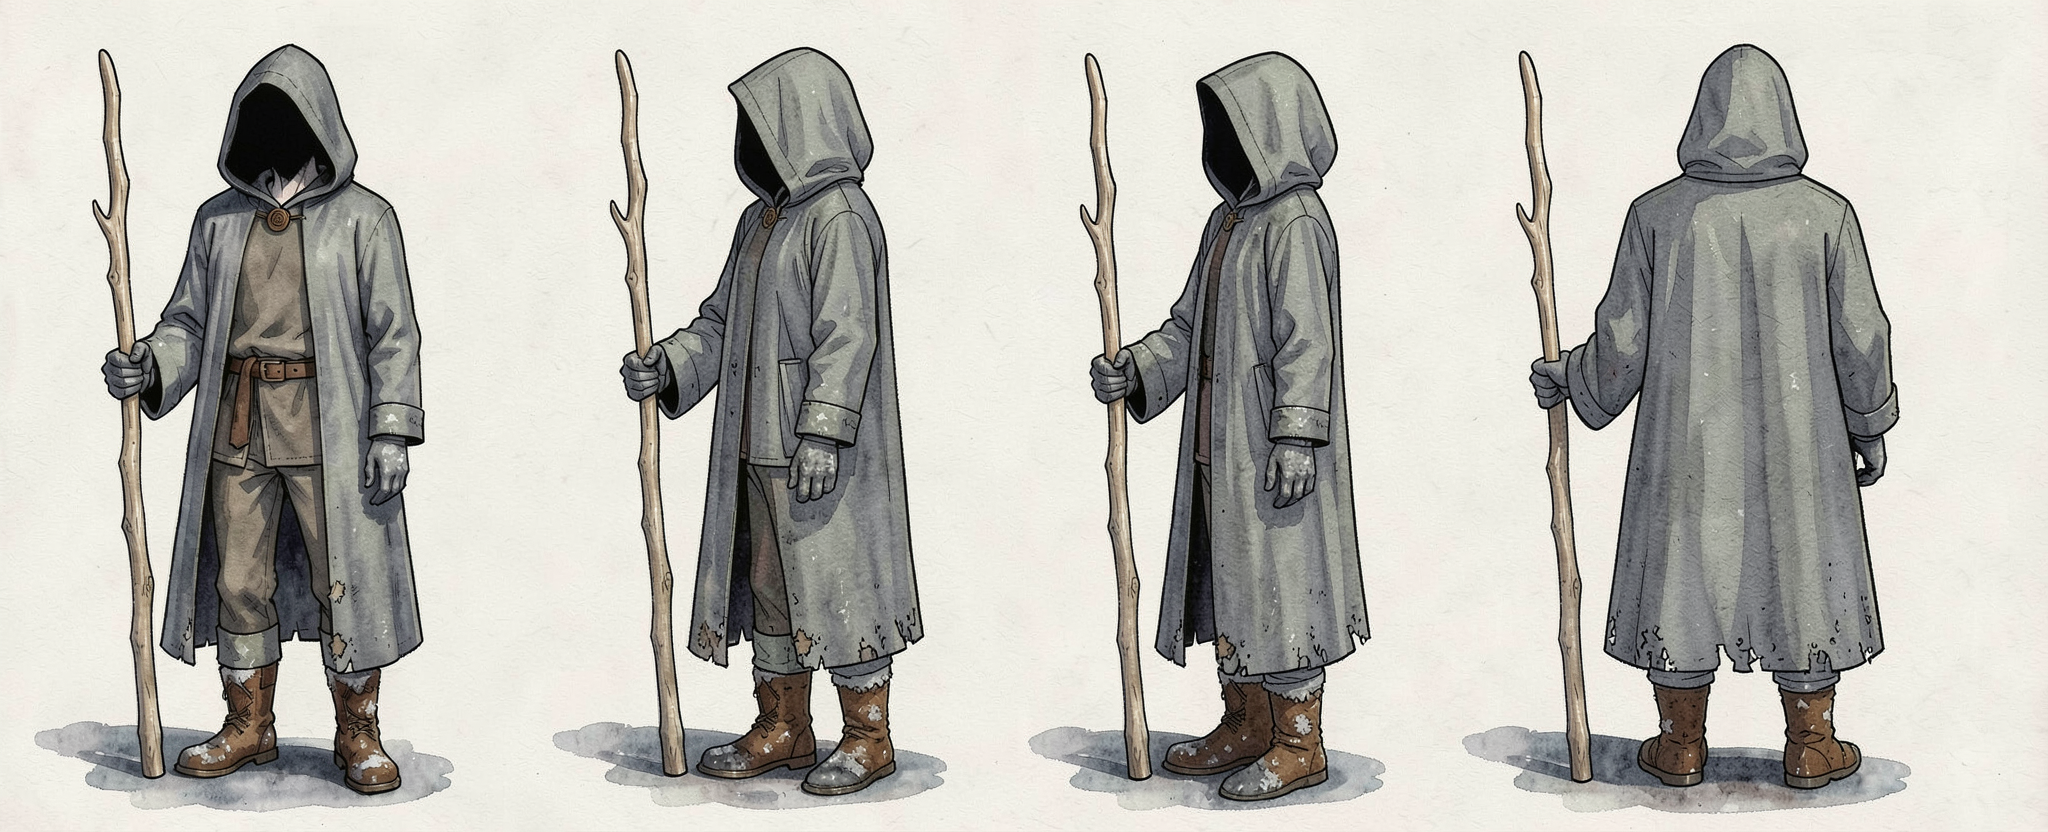
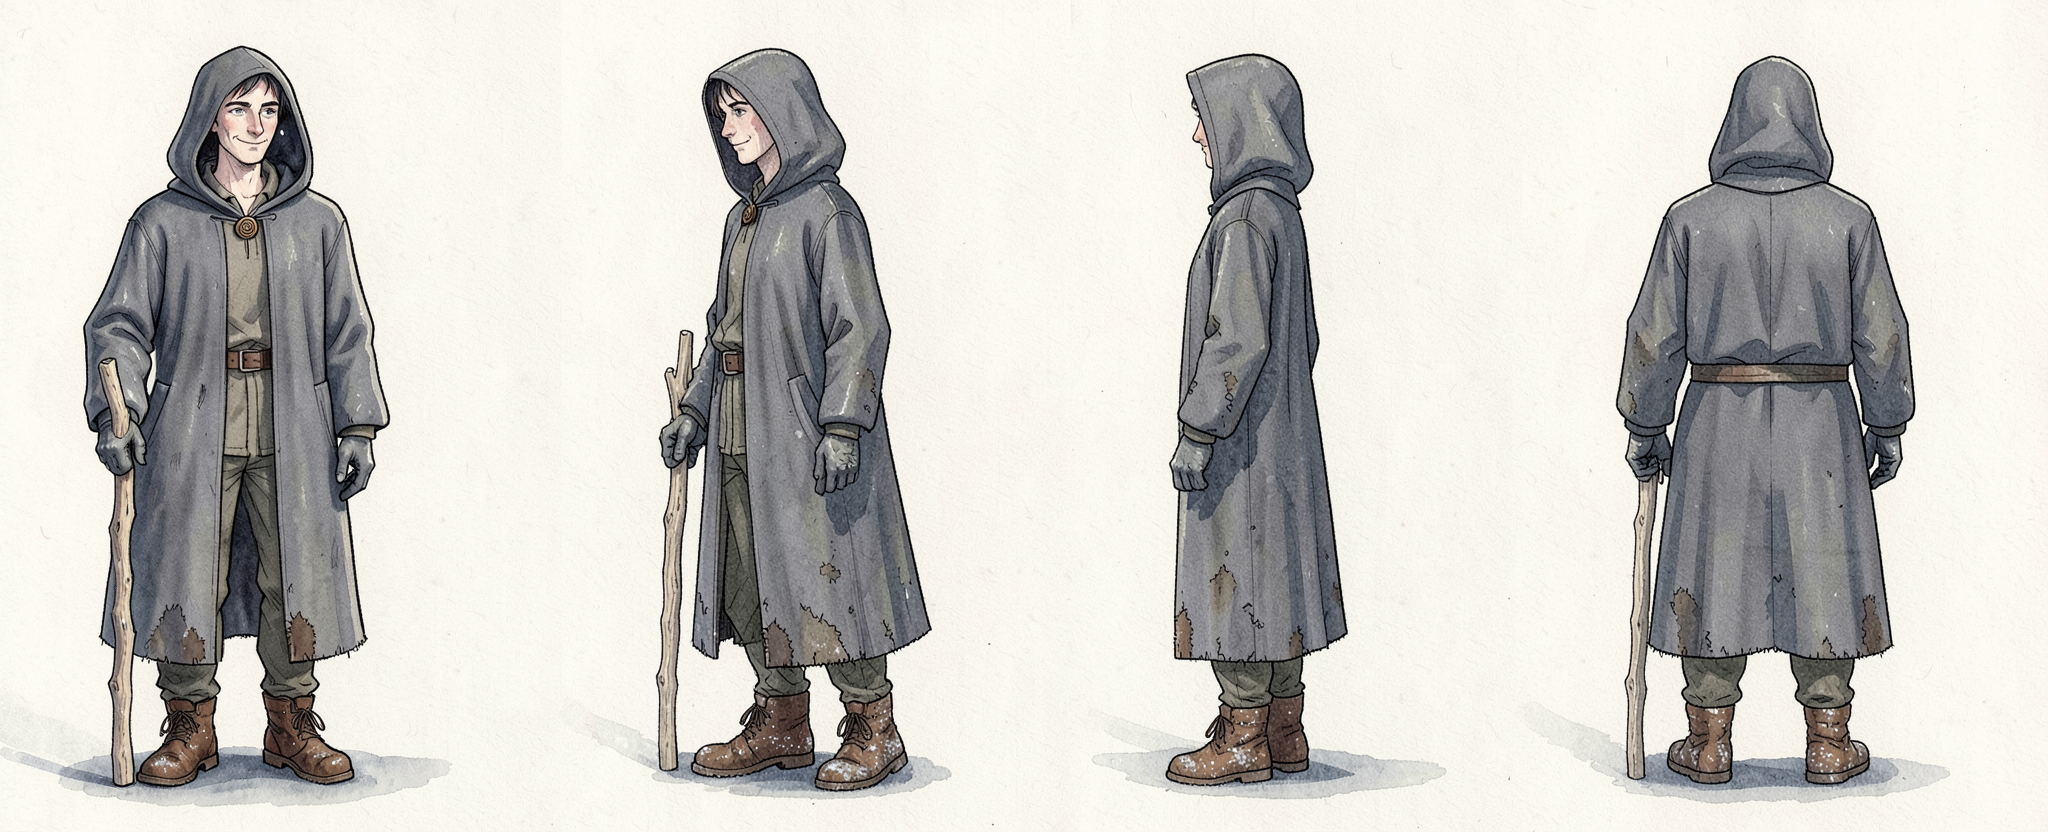
Der Fremde: von Pasco gewählte Fassung (Gesicht sichtbar), Nerelle bestätigt

diff --git a/docs/art/figuren/README.md b/docs/art/figuren/README.md
@@ -56,7 +56,7 @@ Grundaussehen nach `docs/worldbuilding/figuren-aussehen.md`; die ergänzten Deta
 - Der Fremde: Bei vielen Seeds zeichnet das Modell in den Seitenansichten ein Menschengesicht. Beim Erzeugen von Szenen darauf achten, dass das Gesicht im Schatten bleibt. Seine Stiefel sehen recht modern aus.
 - Der Fremde hält den Brief mit dem Spiralsiegel – streng genommen ein Szenenzustand (Perle 1, Nacht).
 
-## Die vier Mentoren (Yrsa, Borrik und Vael bestätigt 12.10.2026; Nerelle überarbeitet, Abnahme offen)
+## Die vier Mentoren (alle vier von Pasco bestätigt; Nerelle am 13.10.2026)
 Grundaussehen nach `docs/worldbuilding/figuren-aussehen.md`; ergänzte Details stehen dort als Vorschlag.
 
 | Datei | Entstanden aus |
@@ -74,22 +74,21 @@ Grundaussehen nach `docs/worldbuilding/figuren-aussehen.md`; ergänzte Details s
 - Vael: Die Mütze fehlt bewusst (Szenenzustand).
 
 ## Grumak und der Fremde – aktuelle Fassung (13.10.2026)
-Die Fassungen vom 13.10.2026 haben die ersten Bilder ersetzt (Grumak von Pasco angenommen; beim Fremden nach Auftrag entschieden).
+Die Fassungen vom 13.10.2026 haben die ersten Bilder ersetzt (beide von Pasco angenommen).
 
 | Datei | Entstanden aus |
 |---|---|
 | `grumak-einzel.png` | `grumak-einzel-neu.prompt.txt`, Seed 2, 1024×1216, nur aus Text. Die blasse Bleistiftfigur daneben ist ein Größenvergleich mit einem Menschen. |
 | `grumak-referenzblatt.png` | `grumak-blatt.prompt.txt`, Seed 1, 2048×832, Referenz `grumak-einzel.png` |
-| `fremder-einzel.png` | `fremder-einzel-neu.prompt.txt`, Seed 4, 832×1216; danach beide Augen als Schimmer ergänzt (`fremder-augen.prompt.txt`, Seed 4) |
-| `fremder-referenzblatt.png` | `fremder-blatt.prompt.txt`, Seed 8, 2048×832, Referenz `fremder-einzel.png` |
-| `fremder-vergleich.png` | Übersicht für Pasco: links die gewählte Fassung, daneben die sechs Seeds des dritten Versuchs (`fremder-einzel-v3.prompt.txt`) |
+| `fremder-einzel.png` | `fremder-einzel-v3.prompt.txt`, Seed 2, 832×1216, nur aus Text. **Von Pasco gewählt (13.10.2026).** Die blasse Bleistiftfigur daneben ist ein Größenvergleich. |
+| `fremder-referenzblatt.png` | `fremder-blatt.prompt.txt`, Seed 2, 2048×832, Referenz `fremder-einzel.png` |
+| `fremder-vergleich.png` | Übersicht: links die Fassung vom 12.10. (schwarzes Gesicht), daneben die sechs Seeds des dritten Versuchs |
 
-**Der Fremde, dritter Versuch – nicht übernommen:** Alle sechs Seeds zeigen ein vollständiges, gut ausgeleuchtetes Männergesicht mit Augen und Nase; das verstößt gegen die Prüfliste („nie ein ganzes Gesicht“). Gestalt und geflickter Saum sind dort besser (größer, schlanker). Ein Versuch, das obere Gesicht per Bildreferenz abzudunkeln, machte das Gesicht ganz schwarz. Deshalb bleibt die Fassung „neu“.
+**Der Fremde – Entscheidung von Pasco (13.10.2026):** Seed 2 des dritten Versuchs. Das Gesicht ist unter der Kapuze **sichtbar** (schmales, freundliches Gesicht, dunkles Haar, leises Lächeln). Das weicht von der bisherigen Vorgabe „Gesicht im Schatten, nie ein ganzes Gesicht“ ab; `docs/worldbuilding/der-fremde.md` ist entsprechend ergänzt. Die Szenen-Prompts beschreiben noch das Gesicht im Schatten.
 
 **Bekannte Schwächen:**
 - Grumaks graue Strähnen sind kaum zu sehen; mit dem alten Bild als Referenz ließ er sich nicht vergrößern, deshalb neu aus Text.
-- Der Fremde: Auf dem Einzelbild sind die Augen eher helle Punkte als ein matter Schimmer. Auf dem Referenzblatt ist das Gesicht fast ganz schwarz, und er wirkt weniger groß und schlank. Der Saum ist zerrissen statt geflickt.
-
+- Der Fremde: Die Augen sind normale helle Augen, kein silbriger Schimmer. Der Stab reicht nur bis zur Hüfte statt bis zur Schulter. Auf dem Referenzblatt wirkt er jünger und weniger groß als auf dem Einzelbild.
 ## Figuren aus Perle 1, Schritt B (13.10.2026, Aussehen ist Vorschlag)
 Einzelbild: `<name>-einzel.prompt.txt`, 832×1216, nur aus Text. Referenzblatt: `blatt-allgemein.prompt.txt`, 2048×832, Referenz das Einzelbild.
 

diff --git a/docs/worldbuilding/figuren-aussehen.md b/docs/worldbuilding/figuren-aussehen.md
@@ -51,7 +51,7 @@ Legende: **(Story)** = steht so im Text · **(festgelegt)** = von Pasco bestäti
 
 ---
 
-### Ergänzungen aus den Mentoren-Bildern (Yrsa, Borrik, Vael festgelegt 12.10.2026; Nerelle noch Vorschlag)
+### Ergänzungen aus den Mentoren-Bildern (alle vier festgelegt; Nerelle am 13.10.2026)
 Diese Details stehen nicht in der Story; sie stammen aus den Entwürfen in `docs/art/figuren/` und gelten erst, wenn Pasco sie bestätigt.
 - **Yrsa:** Mensch um die siebzig, klein und kräftig; rostrotes Kopftuch, dunkles Wollkleid mit hochgekrempelten Ärmeln, braune Lederschürze mit Brandflecken, feste Stiefel, Schmiedehammer.
 - **Borrik:** kahler Kopf, sanftes Lächeln; graue staubige Steinmetzschürze über erdbrauner Tunika, schwere Stiefel, Gehstock.
@@ -81,7 +81,7 @@ Diese Details stehen nicht in der Story; sie stammen aus den Entwürfen in `docs
 Diese Details stehen nicht in der Story; sie stammen aus den Bildern in `docs/art/figuren/`, die Pasco bestätigt hat.
 - **Grumak:** **groß und massig wie ein Schrank** (angepasst 12.10.2026): deutlich größer als ein Mensch, sehr breite Schultern, kräftige Arme, großer Brustkorb – aber gutmütig, nicht bedrohlich. Graugrüne Haut, **zwei deutliche untere Hauer**, spitze Ohren, langes schwarzes Haar mit **grauen Strähnen**, zurückgebunden; **kleine goldene Ringe in beiden Ohren**. Rostrote Händlertunika mit Goldborte, breiter Ledergürtel mit Gewürzbeuteln, safrangelbe Schärpe, dunkle weite Hose, Sandalen. Freundliches, müdes, besorgtes Gesicht – kein Krieger.
 - **Fesk:** Mensch um die fünfzig, schütteres graues Haar nach hinten gekämmt, sehr lange spitze Nase; silbergrauer Mantel mit Stehkragen bis zum Hals geknöpft, graue Hose, polierte schwarze Schuhe; Federkiel in der Hand.
-- **Der Fremde:** **neu gestaltet von Claude (12.10.2026, freie Hand von Pasco)** – verbindlich ist `docs/worldbuilding/der-fremde.md`. Kurz: groß und schlank; abgetragener grauer Reisemantel mit Kapuze; Gesicht im Schatten, aber Kinn und Mund schwach erkennbar; silbrig schimmernde Augen (spiegeln Licht, leuchten nicht); Bronzeschließe in Form der Spirale aus vier Linien; heller Treibholzstab; graue Handschuhe; Stiefel voller grauem Bergstaub.
+- **Der Fremde:** **neu gestaltet von Claude (12.10.2026, freie Hand von Pasco)** – verbindlich ist `docs/worldbuilding/der-fremde.md`. Kurz: groß und schlank; abgetragener grauer Reisemantel mit Kapuze; Gesicht unter der Kapuze sichtbar (Entscheidung Pasco 13.10.2026, Bild `fremder-einzel.png`); silbrig schimmernde Augen (spiegeln Licht, leuchten nicht); Bronzeschließe in Form der Spirale aus vier Linien; heller Treibholzstab; graue Handschuhe; Stiefel voller grauem Bergstaub.
   - **Szenenzustand** Perle 1, Nacht: nasser Mantel, Brief mit **dunkelgrünem** Siegel (Spirale aus vier Linien) in der Hand.
 
 ### Ergänzungen für die Szenenbilder von Perle 1 (Vorschlag von Claude, 12.10.2026)

diff --git a/docs/auftraege.md b/docs/auftraege.md
@@ -39,7 +39,7 @@ Aussehen der Figuren: `docs/worldbuilding/figuren-aussehen.md`. Lage der Orte: `
 - Keine lesbaren Buchstaben, Zahlen oder Pseudo-Schrift (Schilder bleiben leer).
 - Tickwort: **ein** Auge, **drei** Beine, **Zangen** statt Hände, Schornstein.
 - Liora/Cassian: etwa zwölf Jahre, also nicht zu jung; gepflegte grüne Samtjacke, nur der Szenenzustand darf abweichen.
-- Der Fremde: Gesicht im Schatten, Augen **schimmern** und leuchten nicht, nie ein ganzes Gesicht.
+- Der Fremde: wie `docs/art/figuren/fremder-einzel.png` (von Pasco am 13.10.2026 gewählt: Gesicht unter der Kapuze sichtbar). In Nachtszenen darf es im Schatten liegen; Augen leuchten nicht wie Lampen.
 - Grumak überragt alle deutlich.
 - Söldner: schwarze Mäntel, goldene Waage auf der Brust. Waffen bleiben in der Scheide.
 - Kein Blut, nichts Gruseliges. Finster ist erlaubt, Horror nicht.
@@ -55,7 +55,7 @@ node tools/erzeuge-bild.js docs/art/szenen/perle-1/szene-hafen-kran.prompt.txt d
 
 ### Schritt A – Grumak und der Fremde
 - [x] **Grumak** (von Pasco angenommen, 12.10.2026): `grumak-einzel-neu.png` und `grumak-referenzblatt-neu.png` ersetzen die alten Dateien als `grumak-einzel.png` und `grumak-referenzblatt.png`. Danach `docs/art/figuren/README.md` anpassen. → 13.10.2026 erledigt.
-- [x] **Der Fremde, dritter Versuch:** `docs/art/figuren/fremder-einzel-v3.prompt.txt`, 6 Seeds, 832×1216, nur aus Text. Das Ziel steht in den Kommentarzeilen: größer und schlanker, unteres Gesicht sanft beleuchtet, Augen nur kleine matte Silberfunken. Ist ein Seed besser als `fremder-einzel-neu.png`, wird er zum neuen `fremder-einzel.png`, und dazu kommt ein neues Referenzblatt (`fremder-blatt.prompt.txt`). Sonst wird `fremder-einzel-neu.png` zu `fremder-einzel.png`. Beide Kandidaten in einer Übersicht für Pasco ablegen. → 13.10.2026 erledigt: v3 nicht übernommen (ganzes Gesicht sichtbar), `fremder-einzel-neu.png` ist jetzt `fremder-einzel.png`; Übersicht `docs/art/figuren/fremder-vergleich.png`.
+- [x] **Der Fremde, dritter Versuch:** `docs/art/figuren/fremder-einzel-v3.prompt.txt`, 6 Seeds, 832×1216, nur aus Text. Das Ziel steht in den Kommentarzeilen: größer und schlanker, unteres Gesicht sanft beleuchtet, Augen nur kleine matte Silberfunken. Ist ein Seed besser als `fremder-einzel-neu.png`, wird er zum neuen `fremder-einzel.png`, und dazu kommt ein neues Referenzblatt (`fremder-blatt.prompt.txt`). Sonst wird `fremder-einzel-neu.png` zu `fremder-einzel.png`. Beide Kandidaten in einer Übersicht für Pasco ablegen. → 13.10.2026 erledigt: Pasco hat anhand der Übersicht `docs/art/figuren/fremder-vergleich.png` **v3, Seed 2** gewählt (Gesicht sichtbar); das ist jetzt `fremder-einzel.png`, dazu ein neues Referenzblatt.
 
 ### Schritt B – Neue Figuren (Einzelbild 832×1216 + Referenzblatt 2048×832 mit `blatt-allgemein.prompt.txt`)
 - [x] **Grisk** (`grisk-einzel.prompt.txt`) → 13.10.2026 erledigt.

diff --git a/docs/stand.md b/docs/stand.md
@@ -36,7 +36,7 @@ Stand: 13.10.2026
 
 ## Nächste Schritte
 0. **Lokal: alle Bilder für Perle 1** nach `docs/auftraege.md` (Schritte A–F), danach **Perle 2** (Schritte V–W), **Perle 3** (Schritte G–I) **Perle 4** (Schritte J–L) **Perle 5** (Schritte M–O) und **Perle 6** (Schritte P–R) und **Perle 7** (Schritte S–U); Beschreibungen in `docs/art/szenen/perle-<n>/README.md`. Danach prüft Claude im Chat die Übersichten.
-1. **Abnahmen offen:** Der Fremde (dritter Versuch läuft mit), Nerelle (überarbeitet), Tickwort mit dem Sohn ansehen. Stand lokale Sitzung 13.10.2026: Borrik und Vael sind bestätigt. Nur lokal auf Pascos PC (nicht im Repo) liegen `grumak-*-neu.png`, `fremder-*-neu.png` und Nerelles zwei Bilder; die alten Bilder von Grumak und dem Fremden sind unverändert.
+1. **Abnahmen:** Nerelle bestätigt (13.10.2026). Der Fremde: Pasco hat v3, Seed 2 gewählt – Gesicht unter der Kapuze sichtbar (`docs/worldbuilding/der-fremde.md` ergänzt; die Szenen-Prompts mit dem Fremden beschreiben noch das Gesicht im Schatten und müssten im Chat angepasst werden). Grumak ersetzt. Offen: Tickwort mit dem Sohn ansehen.
 2. **Perle 2 testspielen** und Rückmeldung einarbeiten. Szenenbilder für Perle 2 sind ausgearbeitet (`docs/art/szenen/perle-2/README.md`). **Damit sind alle Bildbeschreibungen für Perle 1–7 fertig** (Gesamtauftrag oben in `docs/auftraege.md`).
 3. **Perle 3 testspielen** (Pasco + Sohn). Offen zur Bestätigung: Familienname **Arvelle**, Waagmeisterin Seraphine, Meisterin Ambra, Fitzel.
 3a. **Perle 4 testspielen.** Figuren bestätigt, Zweck der Kugeln festgelegt (Schutzwall, vor allem für die Oberstadt).

diff --git a/docs/worldbuilding/der-fremde.md b/docs/worldbuilding/der-fremde.md
@@ -13,7 +13,8 @@ Im Spiel heißt er nur **„der Fremde“**. Seinen Namen erfährt der Spieler f
 ## Aussehen (Grundaussehen – verbindlich für Bilder)
 - **Gestalt:** groß und schlank, etwas größer als ein erwachsener Mensch, aufrechte, ruhige Haltung. Alter schwer zu schätzen.
 - **Mantel:** langer, abgetragener grauer **Reisemantel** (kein Mönchsgewand) mit weiter Kapuze; der Saum ist an einigen Stellen geflickt.
-- **Gesicht:** liegt **im Schatten der Kapuze**, aber nicht völlig schwarz: Kinn und Mund sind schwach zu erkennen, blass und schmal; manchmal ein leises Lächeln.
+- **Gesicht (geändert 13.10.2026, Entscheidung von Pasco anhand des Bildes `docs/art/figuren/fremder-einzel.png`):** unter der Kapuze **sichtbar** – schmal, blass, freundlich, dunkles Haar, leises Lächeln. Die frühere Vorgabe (Gesicht im Schatten, nur Kinn und Mund) gilt nicht mehr für das Grundaussehen; in dunklen Szenen (Nacht, Torbogen) darf es weiterhin im Schatten liegen.
+- **Gesicht, frühere Fassung:** liegt **im Schatten der Kapuze**, aber nicht völlig schwarz: Kinn und Mund sind schwach zu erkennen, blass und schmal; manchmal ein leises Lächeln.
 - **Augen:** **silbrig und schimmernd wie Mondlicht auf Wasser** – sie spiegeln das Licht, sie leuchten nicht wie Lampen. Im Dunkeln sieht man nur ihren Schimmer.
 - **Hände:** schlanke Hände in grauen, abgenutzten Lederhandschuhen.
 - **Schließe:** Der Mantel wird von einer kleinen **Bronzeschließe** in Form der **Spirale aus vier Linien** gehalten – sein Erkennungszeichen.
